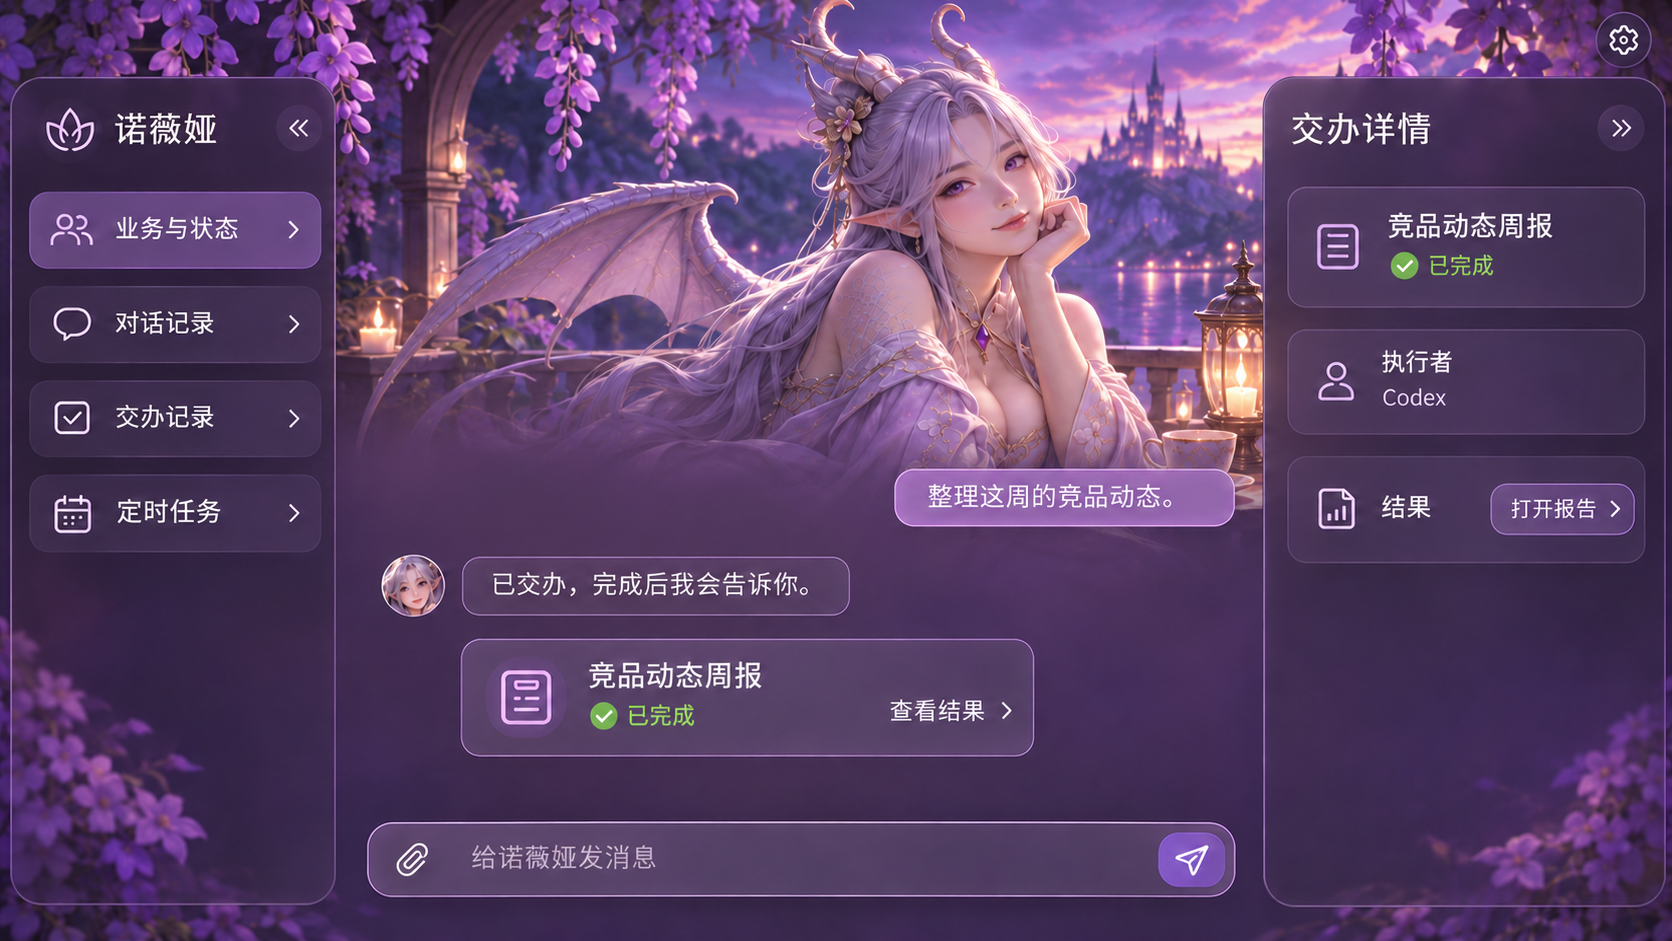
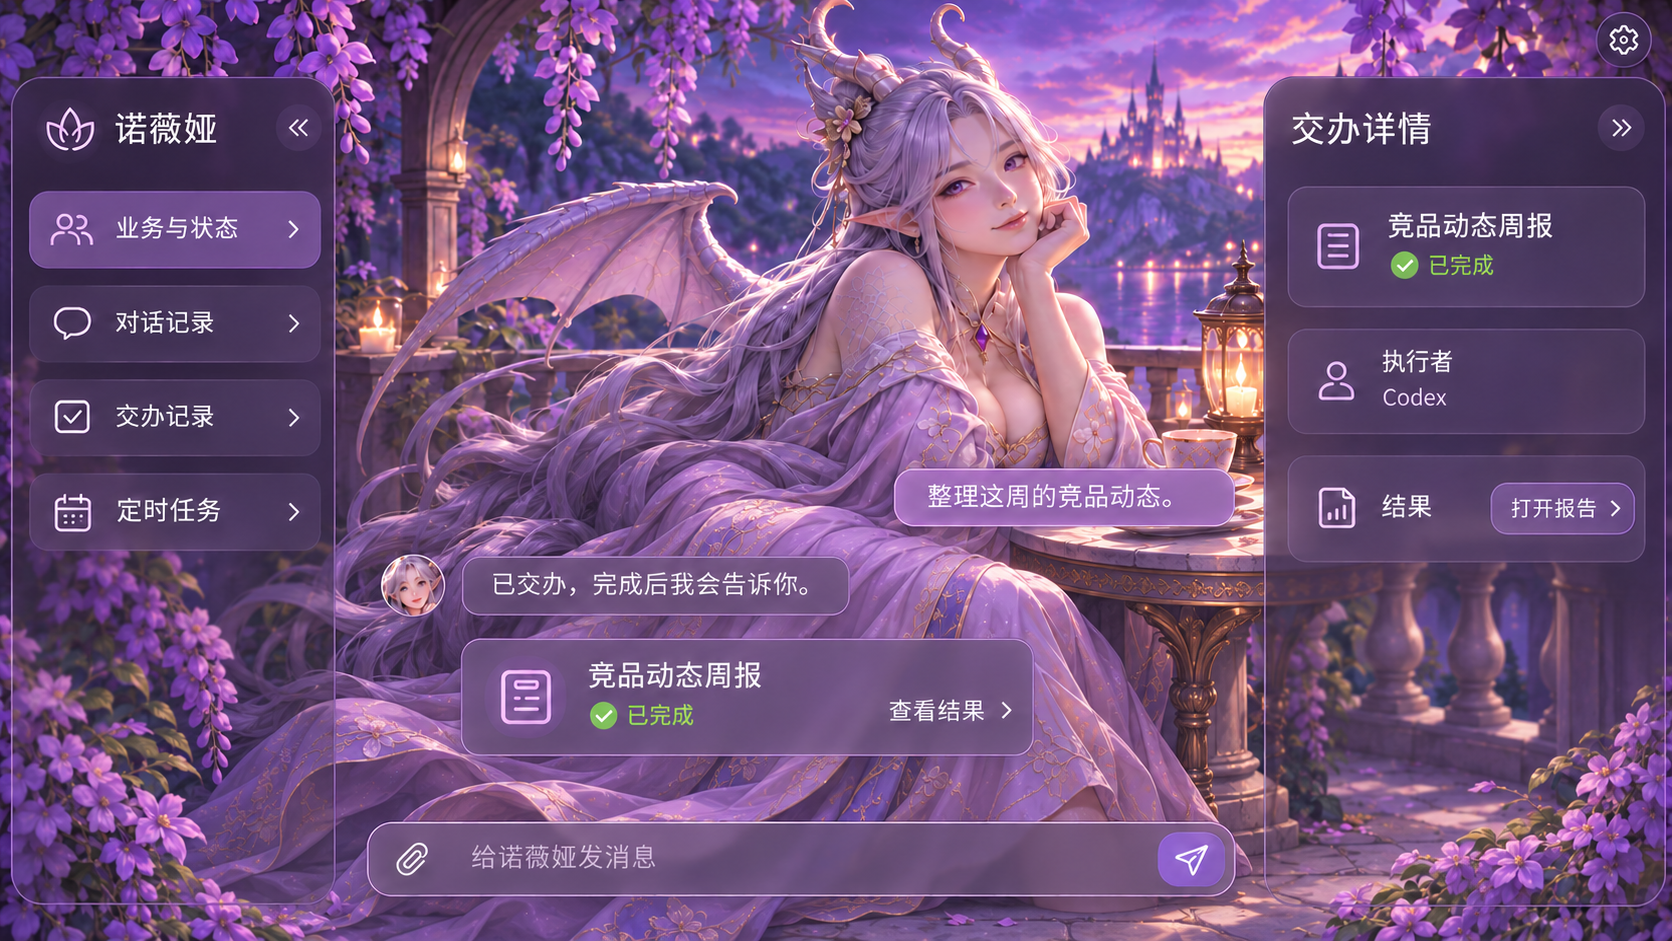
docs: refine Novia backdrop and Expo delivery

diff --git a/docs/novia/desktop-concept-prompts.md b/docs/novia/desktop-concept-prompts.md
@@ -1,6 +1,6 @@
 # PC 端设计图生成提示词
 
-使用内置 ImageGen，以[移动端参考图](mobile-reference.jpg)作为视觉输入。第二轮以初稿为输入，修正用户消息的归属。最终采用[修订后的设计图](desktop-concept.png)。
+使用内置 ImageGen，以[移动端参考图](mobile-reference.jpg)作为视觉输入。第二轮修正用户消息的归属，第三轮按移动端的透明效果修改背景。最终采用[修订后的设计图](desktop-concept.png)。
 
 ## 初稿
 
@@ -12,4 +12,10 @@ Use case: ui-mockup. Adapt the attached mobile mockup into a NEW, separate wides
 
 ```text
 Use case: precise-object-edit, refinement of a high-fidelity Novia desktop UI concept. Image 1 is the exact edit target. Make one change only: in the central chat, the first message “整理这周的竞品动态。” is the USER's message. Remove the silver-haired Novia avatar beside that first message, and move just that first bubble horizontally to the right side of the central chat column, still at the same vertical position, aligned with the right edge of the bottom composer. It is an outgoing message with a slightly brighter soft lavender fill, no avatar, and the same readable white Chinese text. Keep the second message “已交办，完成后我会告诉你。” and its left-side character avatar exactly as before. Preserve the same 16:9 desktop framing and scale, character face and pose, full-screen fantasy wisteria backdrop, left business navigation, right task details panel and all panel labels, result card, settings gear, composer and icons. Do not add UI elements, text, logos, watermark, or other changes.
+```
+
+## 背景修订
+
+```text
+Use case: precise-object-edit. Image 1 is the desktop UI edit target. Image 2 is the mobile style reference for transparency and continuous background. Change only the backdrop treatment of Image 1: completely remove the broad soft-edged, flat plum gradient/feathered veil covering the lower half of the desktop window and central chat. Reveal and naturally extend the detailed original illustrated scene all the way to the bottom edge behind and between the user bubble, assistant bubble, result card, and input composer. Continue the heroine's lavender fabric, warm stone balcony, table edge and nearby wisteria details, matching the existing painted light and perspective. The lower half must visibly contain varied, crisp scenic detail at the same visual quality as the upper half, including the gaps between controls and under the composer. Apply no canvas-wide color scrim, flat-color fill, broad darkening band, vignette or blur; in particular never fade into plain purple below the character. Match Image 2's uninterrupted full-screen illustration, visible through and around the components. Retain subtle translucent plum glass and crisp readable Chinese text only on the existing individual bubbles, result card, composer, and side panels. Keep the exact desktop composition, scale, left and right panel geometry and controls, all labels and example copy, avatar and message alignment, character's face, outfit and pose, skyline and lighting, and single widescreen aspect ratio from Image 1. The top half must look substantially identical; the lower background becomes a continuous illustrated scene. Output the revised desktop screenshot only.
 ```
